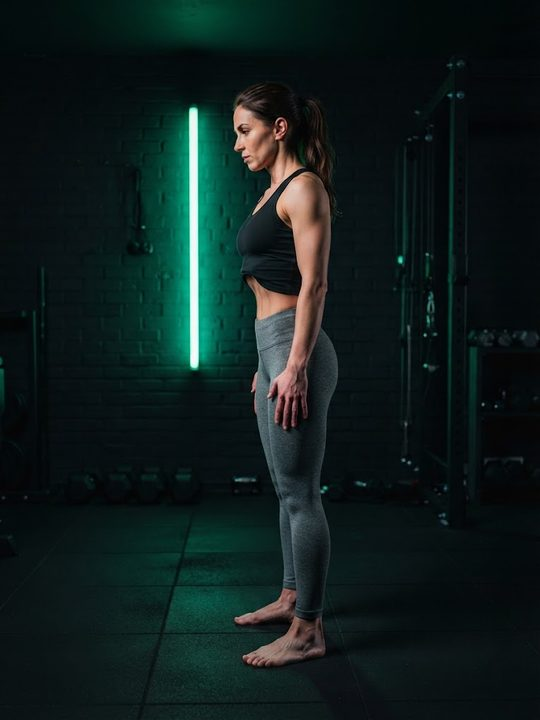
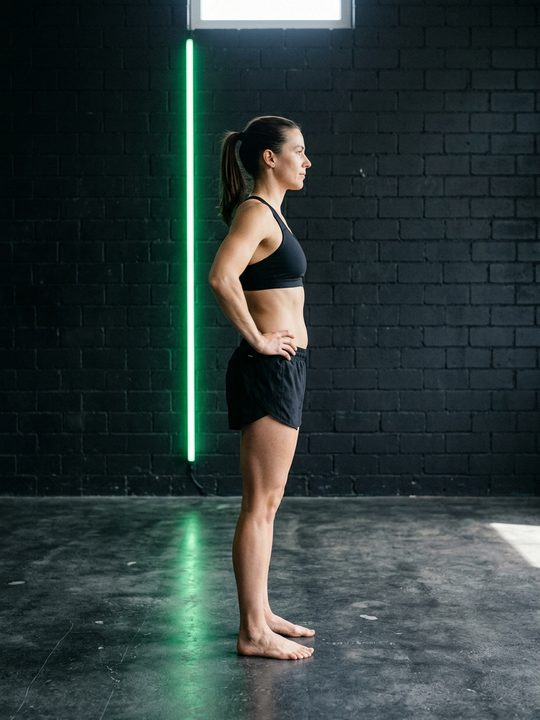
Frauen-GIF stomach_vacuum
Claude-Session: https://claude.ai/code/session_01PvyiLGJFyas6muFwwubScP

diff --git a/script.js b/script.js
@@ -528,7 +528,7 @@ function renderOverview() {
 // V8-04: Wochenplan-Einträge (haben trainingId) sind anklickbar -> Detailseite mit Dauer/Kalorien.
 // V6-08: Verlauf als Foto-Kacheln mit Wochenkopf, Gruppierung nach Woche/Monat.
 let imgSet = new Set();
-fetch('img/index.json?v=325').then(r => r.json()).then(a => { imgSet = new Set(a); }).catch(() => {});
+fetch('img/index.json?v=326').then(r => r.json()).then(a => { imgSet = new Set(a); }).catch(() => {});
 function slugOf(g) { return (g || '').replace(/^gifs\//, '').replace(/\.gif$/, ''); }
 // Foto passend zum Profil (m/w); ohne Foto -> GIF
 function imgOf(ex) {
